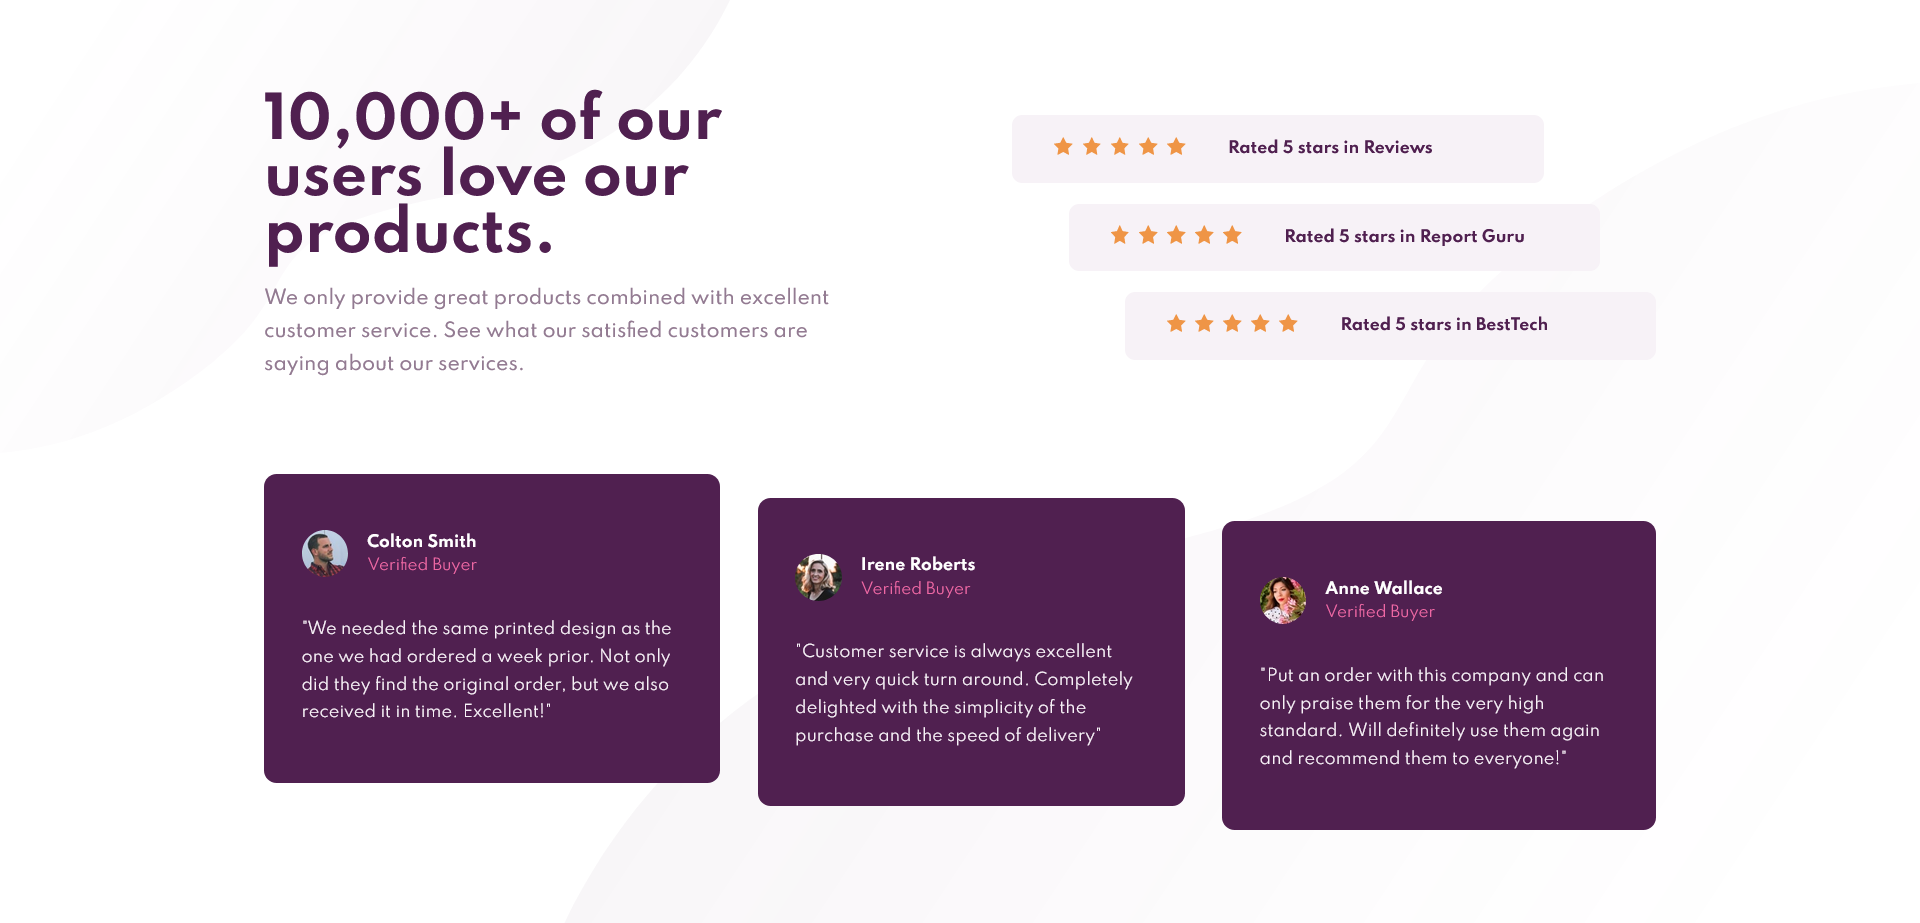
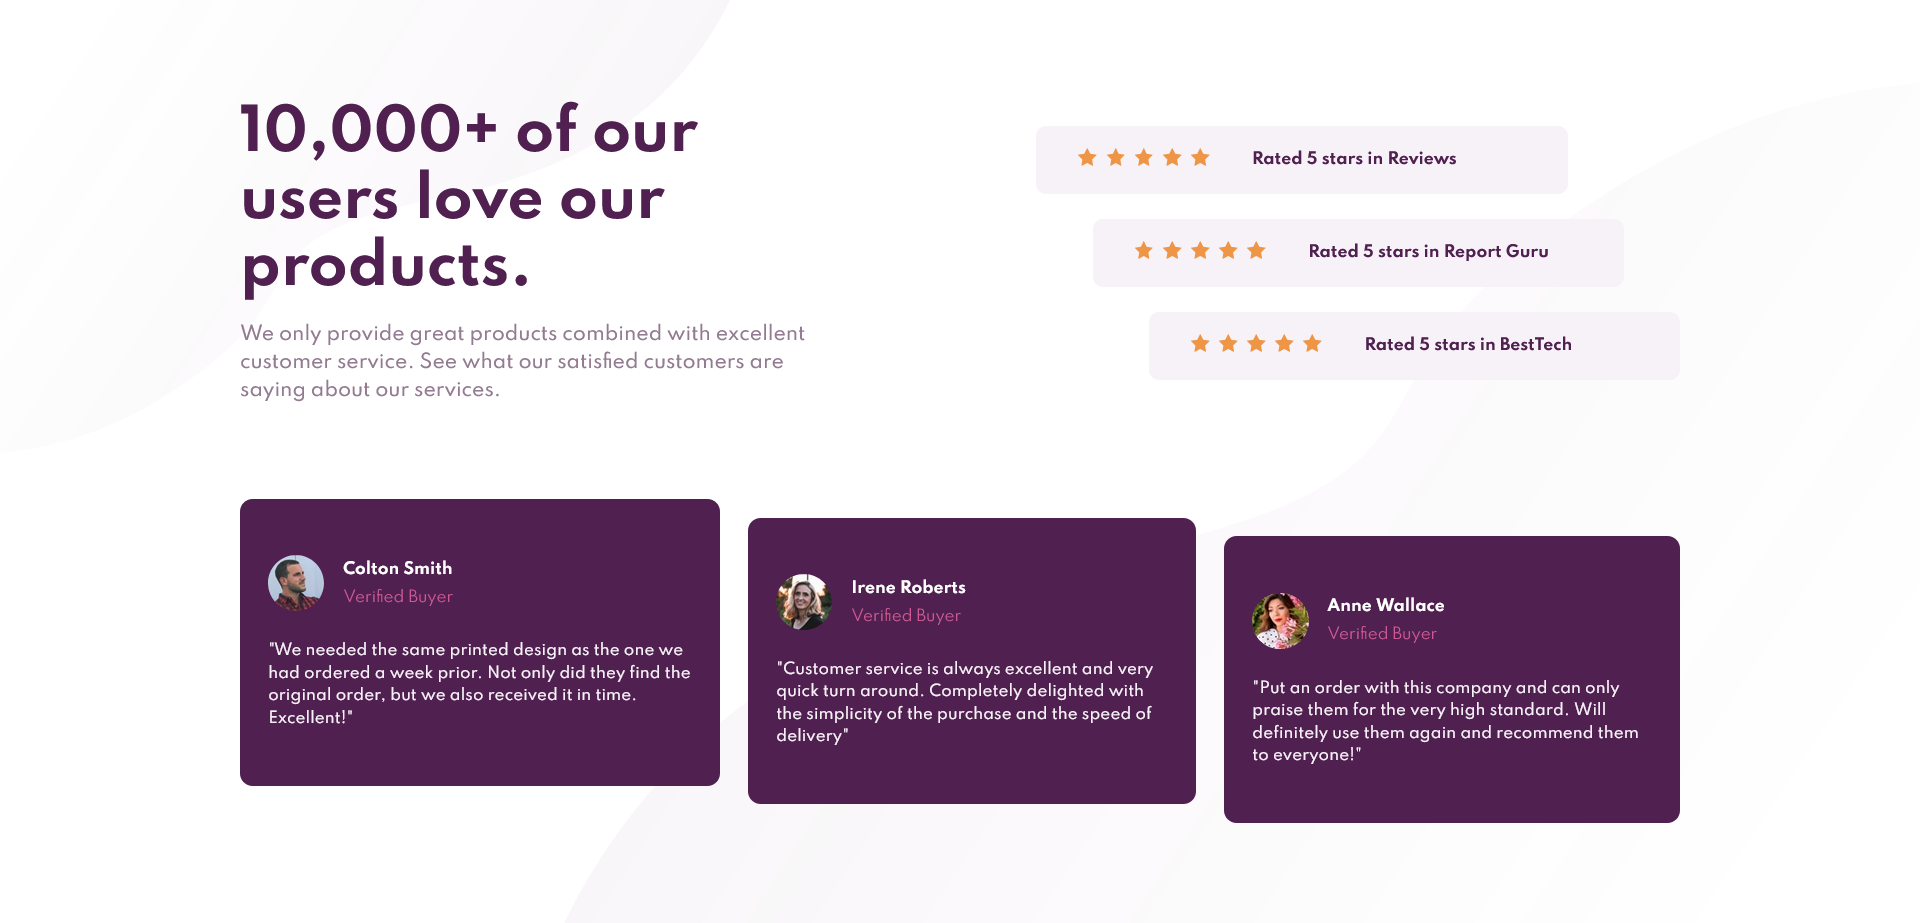
Tweak CSS

diff --git a/styles/Testimonial.module.css b/styles/Testimonial.module.css
@@ -3,10 +3,10 @@
   flex-direction: column;
   align-items: center;
   justify-content: center;
-  gap: 2em;
+  gap: 1.5em;
   background-color: hsl(300, 43%, 22%);
   color: white;
-  padding: 3em 2em;
+  padding: 3em 1.5em;
   border-radius: 10px;
   height: min-content;
 }
@@ -20,13 +20,13 @@
 
 .buyerImage {
   border-radius: 100%;
-  width: 2.5em;
+  width: 3em;
 }
 
 .buyerInfo {
   display: flex;
   flex-direction: column;
-  gap: 0.25em;
+  gap: 0.5em;
 }
 
 .author {
@@ -38,13 +38,15 @@
   font-weight: 400;
   margin: 0;
   color: hsl(333, 80%, 67%);
+  opacity: 80%;
 }
 
 .review {
   color: hsl(300, 24%, 96%);
   margin: 0;
-  font-size: 0.85em;
-  line-height: 1.75em;
+  font-size: 0.8em;
+  line-height: 1.5em;
+  font-weight: 500;
   letter-spacing: 0.1px;
 }
 

diff --git a/styles/Main.module.css b/styles/Main.module.css
@@ -3,7 +3,7 @@
   flex-direction: column;
   justify-content: space-around;
   gap: 5em;
-  width: 72.5%;
+  width: 75%;
   padding: 5em 0;
 }
 
@@ -26,14 +26,13 @@
 }
 
 .header {
-  line-height: 1em;
   letter-spacing: 0px;
   font-size: 3em;
+  /* line-height: 1em; */
 }
 
 .p {
-  font-size: 1em;
-  line-height: 1.75em;
+  line-height: 1.5em;
   font-weight: 500;
   color: hsl(303, 10%, 53%);
 }
@@ -52,7 +51,7 @@
 
 .testimonialsContainer {
   display: flex;
-  gap: 2em;
+  gap: 1.5em;
 }
 
 @media screen and (max-width: 800px) {

diff --git a/components/Main.js b/components/Main.js
@@ -61,7 +61,7 @@ function Main() {
             author={testimonial.author}
             isVerified={testimonial.isVerified}
             text={testimonial.text}
-            marginTop={isMobileSize ? "0" : `${index * 1.25}em`}
+            marginTop={isMobileSize ? "0" : `${index * 1}em`}
           />
         ))}
       </div>

diff --git a/styles/globals.css b/styles/globals.css
@@ -3,9 +3,8 @@ html,
 body {
   padding: 0;
   margin: 0;
-
-  color: hsl(300, 43%, 22%);
   font-size: 15px;
+  color: hsl(300, 43%, 22%);
 }
 
 h1 {
